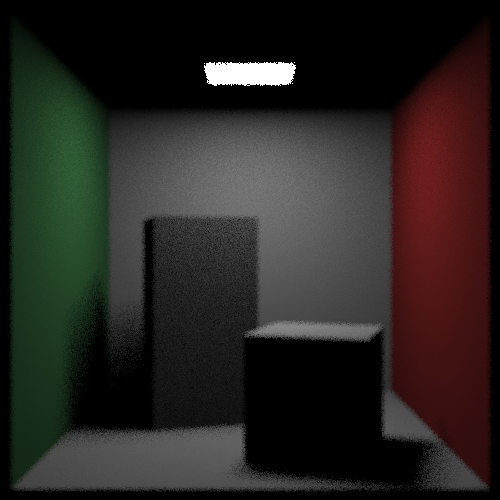
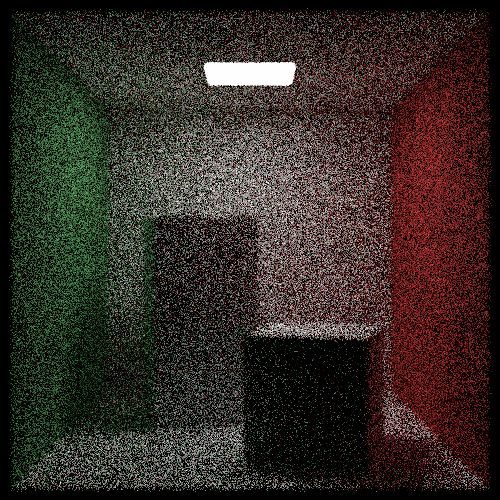
update

diff --git a/FullRayTracing/FullRayTracing/Rendering.cpp b/FullRayTracing/FullRayTracing/Rendering.cpp
@@ -2,7 +2,9 @@
 #include "stb_image_write.h"
 
 #include "Rendering.h"
-
+#include "Cosine_pdf.h"
+#include "Object_PDF.h"
+#include "Mixture_PDF.h"
 
 
 void Rendering::initialize(int w, int h, int c, int depth, int _samples_per_pixel)
@@ -19,7 +21,7 @@ void Rendering::initialize(int w, int h, int c, int depth, int _samples_per_pixe
 	m_image = new unsigned char[width * height * channel];
 }
 
-void Rendering::render(const char* filename, const Camera& camera, const Scene& scene, const Vector3D& background)
+void Rendering::render(const char* filename, const Camera& camera, const Scene& scene, shared_ptr<Object>& lights, const Vector3D& background)
 {
 
 	for (int row = height - 1; row >= 0; row--)
@@ -34,7 +36,7 @@ void Rendering::render(const char* filename, const Camera& camera, const Scene& 
 				float t = (row + random_float()) / height;
 
 				Ray r = camera.get_ray(s, t);
-				color_pixel += rayColor(r, background, scene, maxDepth);
+				color_pixel += rayColor(r, background, scene, lights, maxDepth);
 			}
 			
 			drawPixel(row, col, color_pixel);
@@ -63,7 +65,7 @@ void Rendering::drawPixel(int row, int col, const Vector3D& color)
 	m_image[index + 3] = static_cast<unsigned char>(255);
 }
 
-Vector3D Rendering::rayColor(const Ray& r, const Vector3D& background, const Scene& scene, int depth)
+Vector3D Rendering::rayColor(const Ray& r, const Vector3D& background, const Scene& scene, shared_ptr<Object>& lights, int depth)
 {
 	hit_record rec;
 
@@ -82,22 +84,14 @@ Vector3D Rendering::rayColor(const Ray& r, const Vector3D& background, const Sce
 	if (!rec.mat_ptr->scatter(r, rec, albedo, scattered, pdf))
 		return emitted;
 
-	auto on_light = Vector3D(random_float(213, 343), 554, random_float(227, 332));
-	auto to_light = on_light - rec.pos;
-	auto distance_squared = length_squared(to_light);
-	to_light = unit_vector(to_light);
+	auto p0 = make_shared<Object_PDF>(lights, rec.pos);
+	auto p1 = make_shared<Cosine_pdf>(rec.normal);
+	Mixture_PDF mixed_pdf(p0, p1);
 
-	if (dot(to_light, rec.normal) < 0)
-		return emitted;
+	scattered = Ray(rec.pos, mixed_pdf.generate(), r.time);
+	pdf = mixed_pdf.value(scattered.direction);
+	
 
-	float light_area = (343 - 213) * (332 - 227);
-	auto light_cosine = fabs(to_light.y);
-	if (light_cosine < 0.000001)
-		return emitted;
-
-	pdf = distance_squared / (light_cosine * light_area);
-	scattered = Ray(rec.pos, to_light, r.time);
-
-	return emitted + albedo * rec.mat_ptr->scattering_pdf(r, rec, scattered) * rayColor(scattered, background, scene, depth - 1) / pdf;
+	return emitted + albedo * rec.mat_ptr->scattering_pdf(r, rec, scattered) * rayColor(scattered, background, scene, lights, depth - 1) / pdf;
 }
 

diff --git a/FullRayTracing/FullRayTracing/main.cpp b/FullRayTracing/FullRayTracing/main.cpp
@@ -291,7 +291,7 @@ int test()
 
 int main()
 {
-	const char* filename = "../result/twenty-two.jpg";
+	const char* filename = "../result/twenty-five.jpg";
 
 	int width = 1920;
 	int height = 1080;
@@ -314,6 +314,7 @@ int main()
 	//--------------------------------------------------------------------
 	//scene setting
 	Scene scene;
+	shared_ptr<Object> lights;
 
 	switch (6)
 	{
@@ -360,10 +361,11 @@ int main()
 		break;
 	case 6:
 		scene = cornell_box();
+		lights = make_shared<XZ_Rect>(213, 343, 227, 332, 554, shared_ptr<Material>());
 		width =	500;
 		height = 500;
 		aspect_ratio = width / height;
-		samples_per_pixel = 10;
+		samples_per_pixel = 1000;
 		background = Vector3D(0, 0, 0);
 		camera_pos = Vector3D(278, 278, -800);
 		camera_lookat = Vector3D(278, 278, 0);
@@ -403,7 +405,7 @@ int main()
 
 	Rendering render;
 	render.initialize(width, height, channel, depth, samples_per_pixel);
-	render.render(filename, camera, scene, background);
+	render.render(filename, camera, scene, lights, background);
 
 	return 0;
 }

diff --git a/FullRayTracing/FullRayTracing/XZ_Rect.h b/FullRayTracing/FullRayTracing/XZ_Rect.h
@@ -15,6 +15,25 @@ public:
 		return true;
 	}
 
+	virtual float pdf_value(const Vector3D& origin, const Vector3D& v) const override
+	{
+		hit_record rec;
+		if (!this->hit(Ray(origin, v), rec, 0.001, INFINITY))
+			return 0;
+
+		auto area = (x1 - x0) * (z1 - z0);
+		auto distance_squared = rec.t * rec.t * length_squared(v);
+		auto cosine = fabs(dot(v, rec.normal) / length(v));
+
+		return distance_squared / (cosine * area);
+	}
+
+	virtual Vector3D random(const Vector3D& origin) const override
+	{
+		auto random_point = Vector3D(random_float(x0, x1), k, random_float(z0, z1));
+		return random_point - origin;
+	}
+
 public:
 	shared_ptr<Material> mp;
 	float x0, x1, z0, z1, k;

diff --git a/FullRayTracing/FullRayTracing/Rendering.h b/FullRayTracing/FullRayTracing/Rendering.h
@@ -22,11 +22,11 @@ public:
 
 	void initialize(int w, int h, int c = 4, int depth = 50, int _samples_per_pixel = 100);
 
-	void render(const char* filename, const Camera& camera, const Scene& scene, const Vector3D& background);
+	void render(const char* filename, const Camera& camera, const Scene& scene, shared_ptr<Object>& lights, const Vector3D& background);
 
 	void drawPixel(int x, int y, const Vector3D& color);
 
-	Vector3D rayColor(const Ray& r, const Vector3D& background, const Scene& scene, int depth);
+	Vector3D rayColor(const Ray& r, const Vector3D& background, const Scene& scene, shared_ptr<Object>& lights, int depth);
 
 };
 

diff --git a/FullRayTracing/FullRayTracing/Mixture_PDF.h b/FullRayTracing/FullRayTracing/Mixture_PDF.h
@@ -1,0 +1,31 @@
+#pragma once
+#include "PDF.h"
+#include "Utility.h"
+using namespace std;
+
+class Mixture_PDF : public PDF
+{
+public:
+	shared_ptr<PDF> p[2];
+
+public:
+	Mixture_PDF(shared_ptr<PDF> p0, shared_ptr<PDF> p1)
+	{
+		p[0] = p0;
+		p[1] = p1;
+	}
+
+	virtual float value(const Vector3D& direction) const override
+	{
+		return 0.5 * p[0]->value(direction) + 0.5 * p[1]->value(direction);
+	}
+
+	virtual Vector3D generate() const override
+	{
+		if (random_float() < 0.5)
+			return p[0]->generate();
+		else
+			return p[1]->generate();
+	}
+};
+

diff --git a/FullRayTracing/FullRayTracing/Cosine_pdf.h b/FullRayTracing/FullRayTracing/Cosine_pdf.h
@@ -1,0 +1,24 @@
+#pragma once
+#include "PDF.h"
+#include "ONB.h"
+#include "Utility.h"
+
+class Cosine_pdf : public PDF
+{
+public:
+	ONB uvw;
+
+	Cosine_pdf(const Vector3D& w) { uvw.build_from_w(w); }
+
+	virtual float value(const Vector3D& direction) const override
+	{
+		auto cosine = dot(unit_vector(direction), uvw.w());
+		return (cosine <= 0) ? 0 : cosine / M_PI;
+	}
+
+	virtual Vector3D generate() const override
+	{
+		return uvw.local(random_cosine_direction());
+	}
+};
+

diff --git a/FullRayTracing/FullRayTracing/Object_PDF.h b/FullRayTracing/FullRayTracing/Object_PDF.h
@@ -1,0 +1,24 @@
+#pragma once
+#include "PDF.h"
+#include "Object.h"
+
+class Object_PDF : public PDF
+{
+public:
+	Vector3D o;
+	shared_ptr<Object> ptr;
+
+public:
+	Object_PDF(shared_ptr<Object> p, const Vector3D& origin) : ptr(p), o(origin) {}
+
+	virtual float value(const Vector3D& direction) const override
+	{
+		return ptr->pdf_value(o, direction);
+	}
+
+	virtual Vector3D generate() const override
+	{
+		return ptr->random(o);
+	}
+};
+

diff --git a/FullRayTracing/FullRayTracing/Object.h b/FullRayTracing/FullRayTracing/Object.h
@@ -37,5 +37,14 @@ class Object
 public:
 	virtual bool hit(const Ray& r, hit_record& rec, float t_min, float t_max) const = 0;
 	virtual bool bounding_box(float time0, float time1, AABB& output_box) const = 0;
+	virtual float pdf_value(const Vector3D& o, const Vector3D& v) const
+	{
+		return 0.0;
+	}
+
+	virtual Vector3D random(const Vector3D& o) const
+	{
+		return Vector3D(1, 0, 0);
+	}
 };
 

diff --git a/FullRayTracing/FullRayTracing/PDF.h b/FullRayTracing/FullRayTracing/PDF.h
@@ -1,0 +1,12 @@
+#pragma once
+#include "Vector3D.h"
+
+class PDF
+{
+public:
+	virtual ~PDF() {}
+
+	virtual float value(const Vector3D& direction) const = 0;
+	virtual Vector3D generate() const = 0;
+};
+

diff --git a/FullRayTracing/FullRayTracing/Mixture_PDF.cpp b/FullRayTracing/FullRayTracing/Mixture_PDF.cpp
@@ -1,0 +1,1 @@
+#include "Mixture_PDF.h"

diff --git a/FullRayTracing/FullRayTracing/Cosine_pdf.cpp b/FullRayTracing/FullRayTracing/Cosine_pdf.cpp
@@ -1,0 +1,1 @@
+#include "Cosine_pdf.h"

diff --git a/FullRayTracing/FullRayTracing/Object_PDF.cpp b/FullRayTracing/FullRayTracing/Object_PDF.cpp
@@ -1,0 +1,1 @@
+#include "Object_PDF.h"
